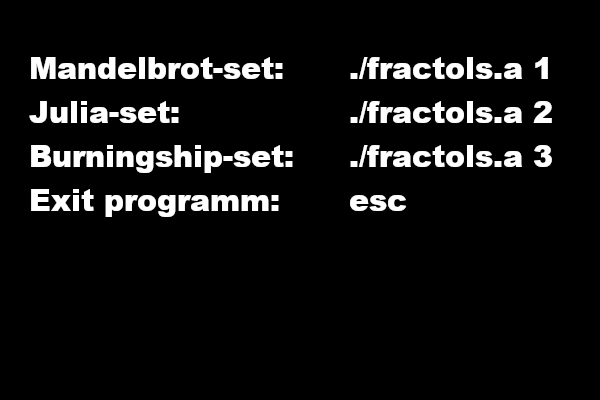
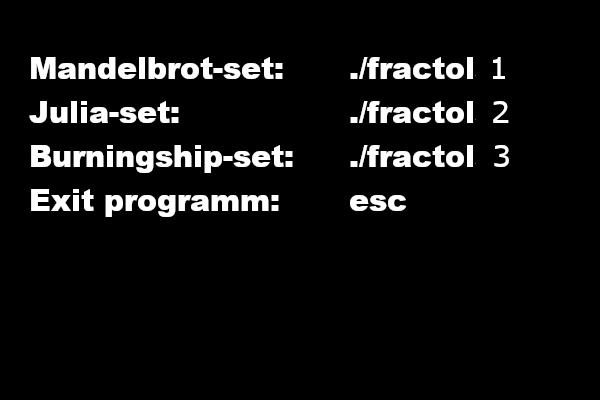
echanged executeable name to fractol

Changed region(s): [[0.78, 0.24, 0.93, 0.33], [0.78, 0.36, 0.93, 0.42], [0.78, 0.15, 0.93, 0.21]]

diff --git a/README.md b/README.md
@@ -16,22 +16,22 @@ make
 You can run the programm with out any options, this will show you the man page
 
 ```
-./fractols.a
+./fractol
 ```
 to generate Mandelbrot-set
 ![Mandelbrot](/image/Mandelbrot-set.png)
 ```
-./fractols.a 1
+./fractol 1
 ```
 for julia set
 ![Julia-set](/image/julia-set-0.png)
 ```
-./fractols.a 2
+./fractol 2
 ```
 and for the Burningship-set
 ![Burningship-set](/image/burningship-set.png)
 ```
-./fractols.a 3
+./fractols 3
 ```
 
 # controls
